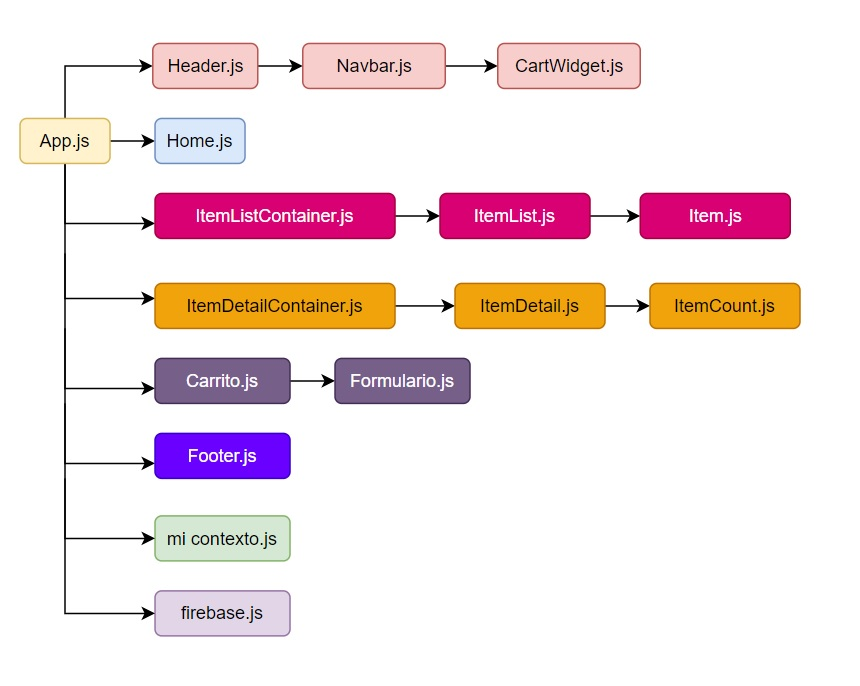
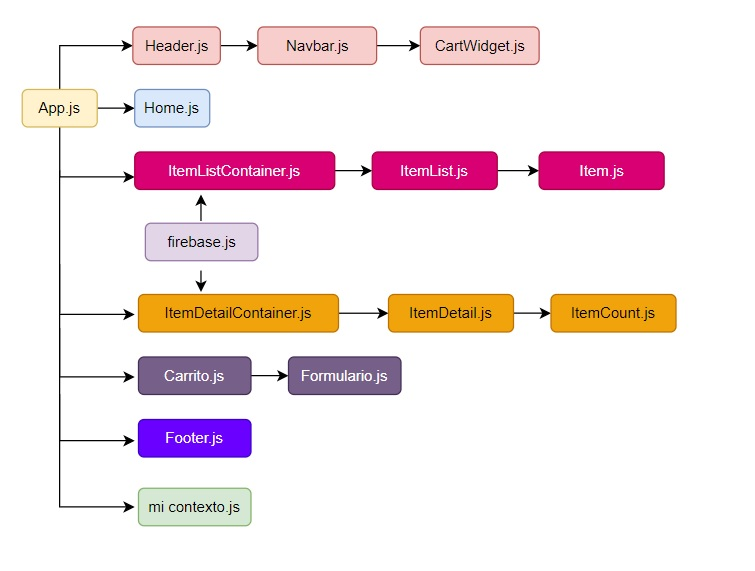
README - agregar texto y modificacion croquis

Changed region(s): [[0.0, 0.0298, 0.9444, 0.9527]]

diff --git a/README.md b/README.md
@@ -1,11 +1,11 @@
 # PROYECTO REACT JS
 # TIENDA ONLINE
 
-"Tienda Online" es una aplicacion con la funcionalidad de un e-commerce, la cual me permite el despligue de varios productos, ver sus detalles, agregarlos al carrito y finalmente genero la confirmación de la compra.
+"Tienda Online" es una aplicación con la funcionalidad de un e-commerce, la cual me permite el despliegue de varios productos, ver sus detalles, agregarlos al carrito y finalmente generar la confirmación de la compra.
 
 ## Descripción de la Aplicación:
 
-* Consume la API "Fakestore" https://fakestoreapi.com/, la cual se encuentra subida a Firebase.
+* Consume la API [Fakestore](https://fakestoreapi.com/), la cual se encuentra subida a Firebase.
 
 * La aplicación me muestra sus productos en su totalidad, o por categoría. 
 
@@ -18,20 +18,25 @@
 * Un nuevo mensaje desplegable nos indica que la compra ha sido exitosa y nos muestra el codigo de compra y nombre del comprador.
 
 ### Componentes:
+![image](https://github.com/vueno1/my-app-Ueno/blob/master/public/croquis.jpg?raw=true)
 
+### Tecnologías utilizadas:
 
-### Tecnologias utilizadas:
-
-* Create-React-App: para el desarrollo de la aplicacion 
-* Firebase: para la base de datos
+* Create-React-App: para el desarrollo de la aplicación. 
+* Firebase: para la base de datos.
 * React-Router-Dom: para el ruteo de links.
-* React-Bootstrap: para agregar estilos a la pagina.
+* React-Bootstrap: para agregar estilos a la página.
 * Toastify: para los avisos desplegables.
 
 ### Como clonar repositorio: 
+
+Linea de comandos:
 ```
-clonar 
-npm i
+git clone https://github.com/vueno1/my-app-Ueno.git
+npm install
+```
+Luego, para ver la aplicación en el navegador: 
+```
 npm start
 ```
 
@@ -43,6 +48,3 @@ mail: uenovale@gmail.com
 ```
 
 Muchas gracias por su visita! :)
-
-
-
